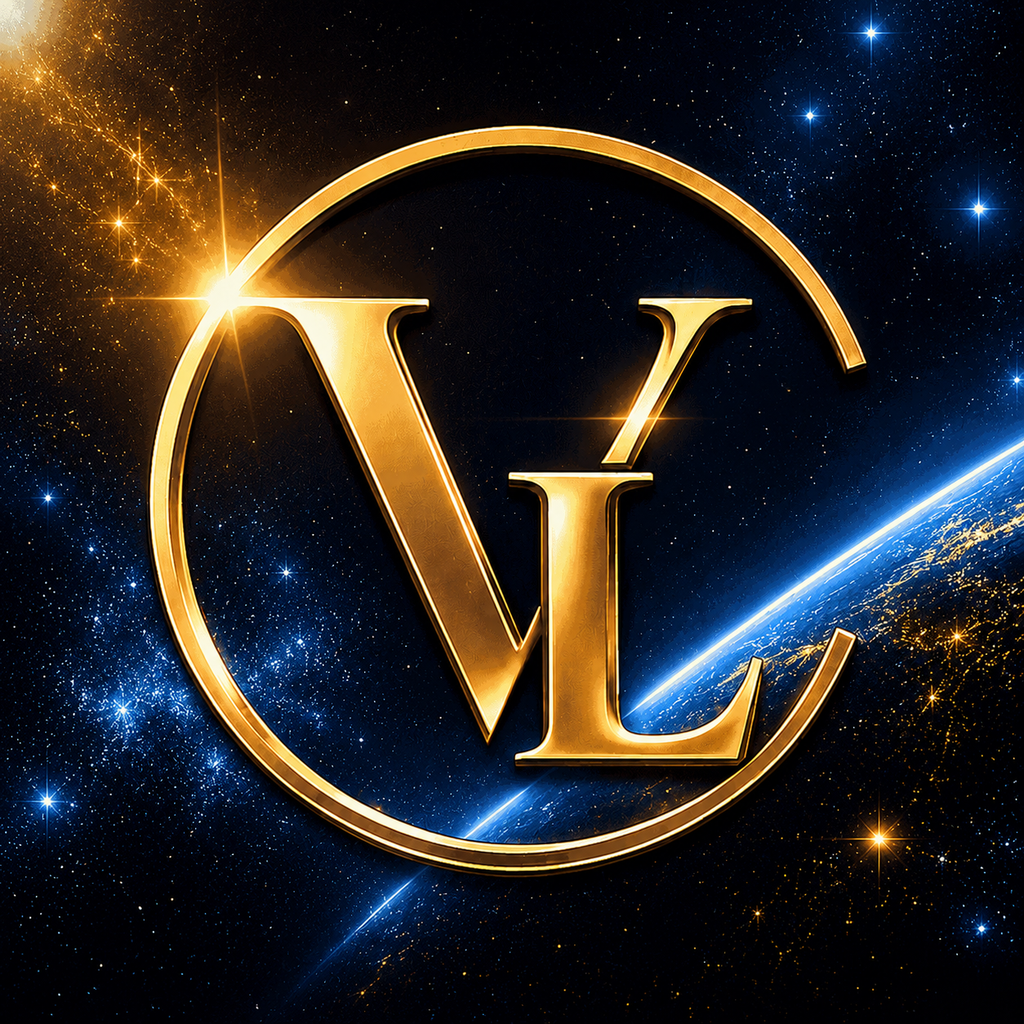
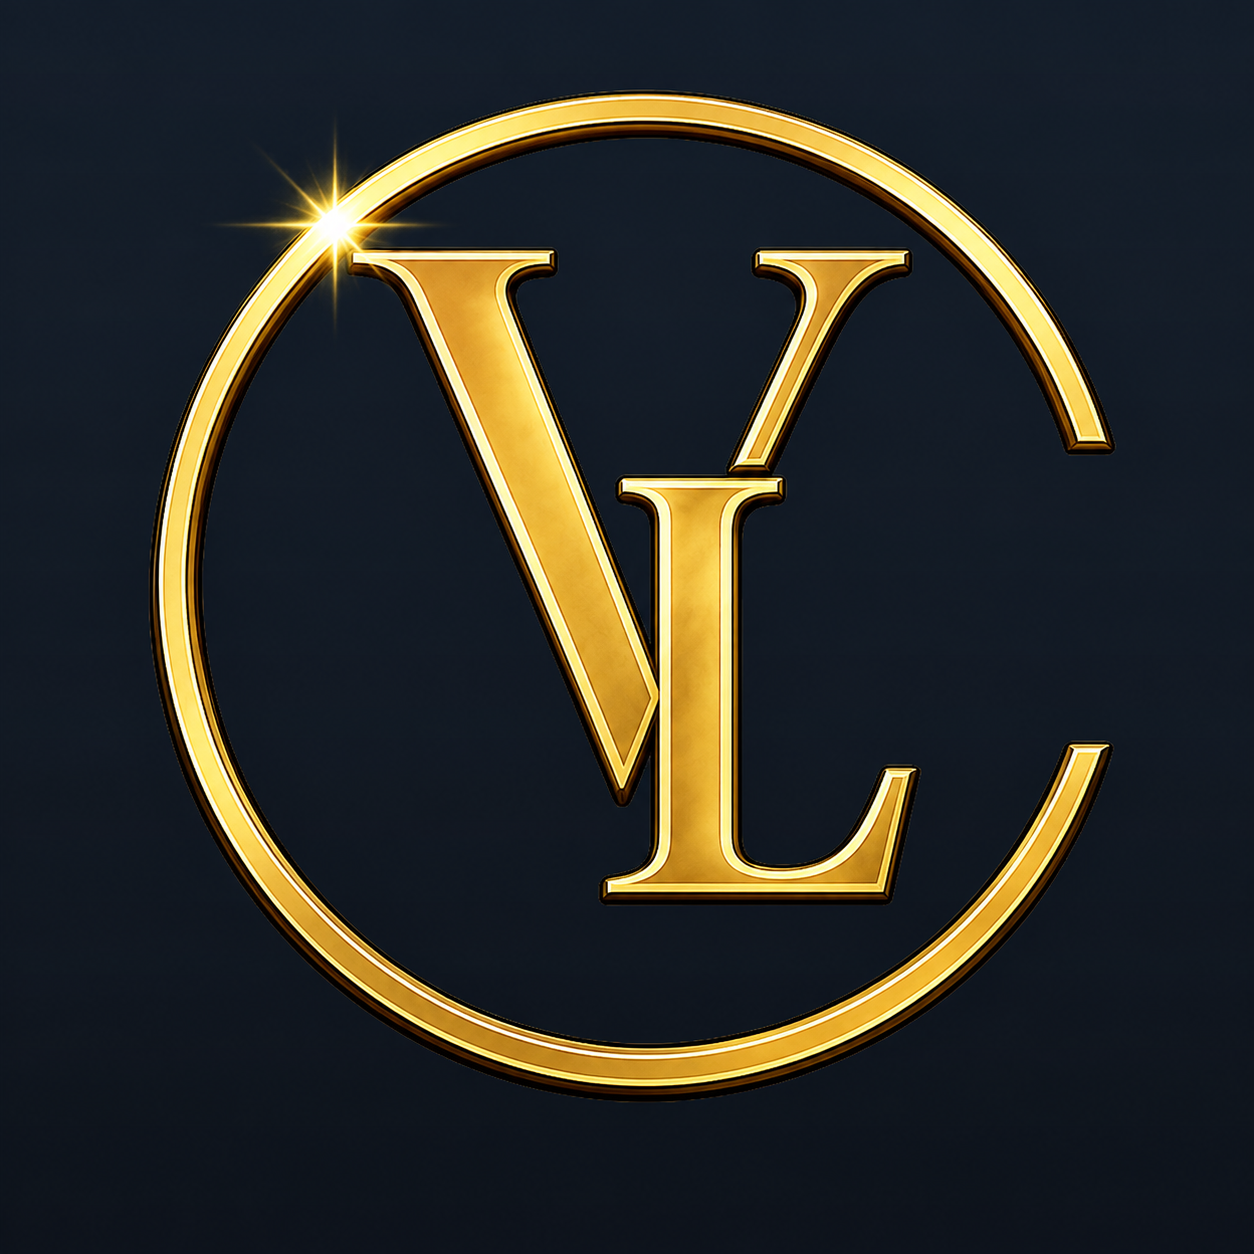
Иконка VIA-L: вензель без подписи; генератор собирает и Android-иконки
- мастер app/assets/icon-source.png заменён на вензель без слова EXPERT
- PWA: 512/192/apple-touch + отдельная maskable с полями (кольцо уходило под круглую маску)
- gen-icons.js научился делать mipmap x5 и адаптивную иконку: знак вырезается по яркости,
  иначе внутри круглой маски виден тёмный квадрат мастера; цвет фона берётся сырым пикселем
  (sharp.stats() игнорирует extract и давал серый)

diff --git a/app/scripts/gen-icons.js b/app/scripts/gen-icons.js
@@ -69,6 +69,57 @@ async function main() {
       fs.writeFileSync(path.join(SPLASH_DIR, f), splash);
     console.log('✓ iOS Splash обновлён (3 файла)');
   }
+  // ── Android: mipmap + адаптивная иконка ──────────────────────────────────
+  // Capacitor кладёт СВОИ дефолтные ic_launcher_*; без этого шага в APK уезжала
+  // стандартная зелёная иконка. Фон адаптивной берём из угла мастера, а сам знак
+  // ужимаем до 66% канвы: система обрезает края маской (круг/сквиркл). 2026-09-04.
+  const ANDROID_RES = path.join(APP, 'android/app/src/main/res');
+  if (fs.existsSync(ANDROID_RES)) {
+    // Цвет берём из ИСХОДНИКА, а не из buf: buf уже прошёл .trim()+cover, и его угол — не фон.
+    // Читаем СЫРОЙ пиксель: sharp.stats() считает по всему кадру и вырез .extract() игнорирует.
+    const corner = await sharp(SRC, isSvg ? { density: 512 } : undefined)
+      .extract({ left: 4, top: 4, width: 2, height: 2 }).removeAlpha().raw().toBuffer();
+    const [r, g, b] = [corner[0], corner[1], corner[2]];
+    const hex = '#' + [r, g, b].map(v => v.toString(16).padStart(2, '0')).join('').toUpperCase();
+    const DPI = { mdpi: 48, hdpi: 72, xhdpi: 96, xxhdpi: 144, xxxhdpi: 192 };
+    // Вырезаем знак из мастера: фон тёмный, золото яркое → альфа по яркости с мягким краем.
+    const MASTER = 1024, LO = 45, HI = 90;
+    const flat = await sharp(buf).resize(MASTER, MASTER, { kernel: 'lanczos3' }).removeAlpha().raw().toBuffer();
+    const rgba = Buffer.alloc(MASTER * MASTER * 4);
+    for (let i = 0, j = 0; i < flat.length; i += 3, j += 4) {
+      const lum = 0.299 * flat[i] + 0.587 * flat[i + 1] + 0.114 * flat[i + 2];
+      rgba[j] = flat[i]; rgba[j + 1] = flat[i + 1]; rgba[j + 2] = flat[i + 2];
+      rgba[j + 3] = Math.max(0, Math.min(255, Math.round((lum - LO) / (HI - LO) * 255)));
+    }
+    const markAlpha = await sharp(rgba, { raw: { width: MASTER, height: MASTER, channels: 4 } }).png().toBuffer();
+    fs.writeFileSync(path.join(APP, 'assets', 'icon-mark-alpha.png'), markAlpha);
+    for (const [dpi, size] of Object.entries(DPI)) {
+      const dir = path.join(ANDROID_RES, 'mipmap-' + dpi);
+      if (!fs.existsSync(dir)) continue;
+      const square = await sharp(buf).resize(size, size, { kernel: 'lanczos3' }).png().toBuffer();
+      fs.writeFileSync(path.join(dir, 'ic_launcher.png'), square);
+      fs.writeFileSync(path.join(dir, 'ic_launcher_round.png'), square);
+      // foreground для адаптивной: ЗНАК без фона, 66% канвы — фон даёт <background>.
+      // Класть сюда мастер целиком нельзя: его тёмный квадрат виден внутри круглой маски.
+      const fgSize = Math.round(size * 108 / 48);
+      const inner = Math.round(fgSize * 0.66);
+      const fg = await sharp({ create: { width: fgSize, height: fgSize, channels: 4, background: { r: 0, g: 0, b: 0, alpha: 0 } } })
+        .composite([{ input: await sharp(markAlpha).resize(inner, inner, { kernel: 'lanczos3' }).png().toBuffer(), gravity: 'centre' }])
+        .png().toBuffer();
+      fs.writeFileSync(path.join(dir, 'ic_launcher_foreground.png'), fg);
+    }
+    const bgXml = path.join(ANDROID_RES, 'values/ic_launcher_background.xml');
+    if (fs.existsSync(bgXml)) {
+      fs.writeFileSync(bgXml, '<?xml version="1.0" encoding="utf-8"?>\n<resources>\n    <color name="ic_launcher_background">' + hex + '</color>\n</resources>\n');
+    }
+    // Capacitor может держать вектор-заглушку, которая перекрывает наш PNG
+    const stubFg = path.join(ANDROID_RES, 'drawable-v24/ic_launcher_foreground.xml');
+    if (fs.existsSync(stubFg)) { fs.unlinkSync(stubFg); console.log('  · удалена вектор-заглушка drawable-v24/ic_launcher_foreground.xml'); }
+    console.log('✓ Android-иконки обновлены (mipmap ×5, фон ' + hex + ')');
+  } else {
+    console.warn('Android не сгенерирован — нет android/. Сначала `npx cap add android`, потом `npm run icons`.');
+  }
+
   console.log('Готово.');
 }
 main().catch(e => { console.error('Ошибка:', e.message); process.exit(1); });
